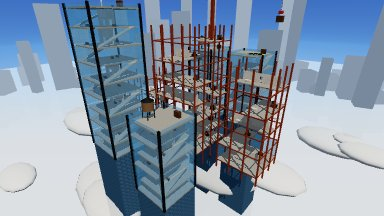
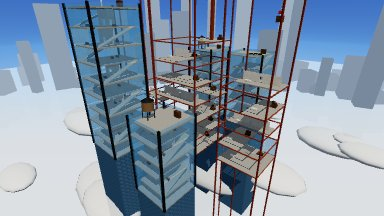
Glass Skyline: frames keep only four corner columns, rising into the sky; they can be grappled and sliced like bamboo

Changed region(s): [[0.3125, 0.0, 0.8125, 1.0], [0.3125, 0.1667, 0.3438, 0.1944]]

diff --git a/src/city.js b/src/city.js
@@ -4,7 +4,7 @@
 // steel frames (unbreakable) are there to swing from, run along and stand on.
 import * as THREE from 'three';
 import { deck, prop } from './maps2.js';
-import { kindMats, chunk, group, wall, stack, finishBrk, kill } from './dojo.js?v=20261114030746';
+import { kindMats, chunk, group, wall, stack, finishBrk, kill } from './dojo.js?v=20261114031250';
 
 const TAU = Math.PI * 2;
 const std = (color, o = {}) => new THREE.MeshStandardMaterial({ color, roughness: 0.8, ...o });
@@ -14,6 +14,8 @@ export function buildCity(A, T) {
   A.plats = []; A.pillars = []; A.arcPts = []; A.killY = -50;
   A.brk = { list: [], cells: new Map(), stamp: 0 };
   kindMats(T);
+  // red steel columns that cut like bamboo: a band (a bolted splice) every 2.6 m
+  M.bamboo = new THREE.MeshStandardMaterial({ map: T.canvasTex((g, s) => { const gr = g.createLinearGradient(0, 0, s, 0); gr.addColorStop(0, '#7e2a12'); gr.addColorStop(0.45, '#cf5a30'); gr.addColorStop(1, '#7a2810'); g.fillStyle = gr; g.fillRect(0, 0, s, s); g.fillStyle = '#3a1408'; g.fillRect(0, 0, s, s * 0.05); g.fillStyle = '#e0e0e0'; for (let i = 0; i < 6; i++) g.fillRect(i * s / 6 + 4, s * 0.012, 4, 4); }, 128), roughness: 0.5, metalness: 0.35 });
   A.setSky({ top: 0x2a68c8, mid: 0xa6cff0, bot: 0xe9f2fa, fog: 0xc3dbef, near: 120, far: 470, hemiSky: 0xe6f2ff, hemiGround: 0x56606e, hemi: 0.95, sunColor: 0xfff3dc, sun: 2.2, sunOff: new THREE.Vector3(40, 70, 25) });
   const concrete = M.concrete = std(0xffffff, { map: T.canvasTex((g, s) => { g.fillStyle = '#a3a19c'; g.fillRect(0, 0, s, s); T.speckle(g, s, T.rng(3), 3500, 0.22); g.fillStyle = 'rgba(0,0,0,0.12)'; g.fillRect(0, 0, s, 2); g.fillRect(0, 0, 2, s); }), roughness: 0.95 });
   const facade = M.facade = std(0xffffff, { map: T.canvasTex((g, s) => {
@@ -104,7 +106,7 @@ export function buildCity(A, T) {
     });
     for (const p of ps.slice(1)) p.parent = ps[0].i;
     A.curPlat = ps[0].i; const g = group();
-    for (const X of xs) for (const Z of zs) if (X === x0 || X === x1 || Z === z0 || Z === z1) chunk(A, g, 'steel', X - 0.25, X + 0.25, yb, top, Z - 0.25, Z + 0.25, true);
+    for (const X of [x0, x1]) for (const Z of [z0, z1]) { A.bamboo.push({ x: X, z: Z, r: 0.34, segs: [], inst: A.bamboo.length }); A.pillars.push({ x: X, z: Z, w: 0.7 }); } // only the corner columns: they rise into the sky, and you can hook them or slice them through (the top falls)
     for (const y of [...new Set(decks.map((k) => k[0]))]) { // beams only round the edge of the levels with a deck (the rest is just the outer columns)
       for (const Z of [z0, z1]) chunk(A, g, 'steel', x0 - 0.25, x1 + 0.25, y - 0.4, y, Z - 0.15, Z + 0.15, true);
       for (const X of [x0, x1]) chunk(A, g, 'steel', X - 0.15, X + 0.15, y - 0.4, y, z0 - 0.25, z1 + 0.25, true);
@@ -135,6 +137,7 @@ export function buildCity(A, T) {
     A.curPlat = undefined;
   }
 
+  A.plantStalks(-70, 160); // the frames' corner columns, from the clouds up into the sky
   finishBrk(A);
   A.onDrop = (p) => {
     for (const b of A.brk.list) if (b.alive && b.plat === p.i) kill(A, b);

diff --git a/src/main.js b/src/main.js
@@ -1,15 +1,15 @@
 import * as THREE from 'three';
-import { Arena, MAPS } from './arena.js?v=20261114030746';
-import { Fighter, PALETTE, GUARD, setMetalEnv, metalEnvFor } from './fighter.js?v=20261114030746';
-import { bakeMeshes, Pieces, Particles, splitSoup } from './slice.js?v=20261114030746';
-import { sfx, ensureAudio, setListener, setVolume } from './audio.js?v=20261114030746';
-import * as net from './net.js?v=20261114030746';
-import { MODES, POINT_MODES, MODE_GOAL, ModeFx, makeCrown } from './modes.js?v=20261114030746';
-import { profile, addCoins, randomLook, cleanLook, item } from './cosmetics.js?v=20261114030746';
-import { makeKillFx } from './killfx.js?v=20261114030746';
-import { makeGrapple } from './grapple.js?v=20261114030746';
-import { initShop } from './shop.js?v=20261114030746';
-import { breakChunk, chunkSoup } from './dojo.js?v=20261114030746';
+import { Arena, MAPS } from './arena.js?v=20261114031250';
+import { Fighter, PALETTE, GUARD, setMetalEnv, metalEnvFor } from './fighter.js?v=20261114031250';
+import { bakeMeshes, Pieces, Particles, splitSoup } from './slice.js?v=20261114031250';
+import { sfx, ensureAudio, setListener, setVolume } from './audio.js?v=20261114031250';
+import * as net from './net.js?v=20261114031250';
+import { MODES, POINT_MODES, MODE_GOAL, ModeFx, makeCrown } from './modes.js?v=20261114031250';
+import { profile, addCoins, randomLook, cleanLook, item } from './cosmetics.js?v=20261114031250';
+import { makeKillFx } from './killfx.js?v=20261114031250';
+import { makeGrapple } from './grapple.js?v=20261114031250';
+import { initShop } from './shop.js?v=20261114031250';
+import { breakChunk, chunkSoup } from './dojo.js?v=20261114031250';
 
 // ---------- settings ----------
 const store = {

diff --git a/index.html b/index.html
@@ -4,7 +4,7 @@
 <meta charset="utf-8">
 <meta name="viewport" content="width=device-width,initial-scale=1">
 <title>Sever</title>
-<meta name="build" content="20261114030746">
+<meta name="build" content="20261114031250">
 <link rel="icon" href="data:,">
 <script>
 // Stale-page guard (as in Splatline): if version.json names a newer build than this page, reload once.
@@ -127,12 +127,12 @@ window.severVersion.check();
 <script type="importmap">
 { "imports": {
   "three": "https://cdn.jsdelivr.net/npm/three@0.160.0/build/three.module.js",
-  "./src/main.js": "./src/main.js?v=20261114030746",
-  "./src/arena.js": "./src/arena.js?v=20261114030746",
-  "./src/fighter.js": "./src/fighter.js?v=20261114030746",
-  "./src/slice.js": "./src/slice.js?v=20261114030746",
-  "./src/audio.js": "./src/audio.js?v=20261114030746",
-  "./src/net.js": "./src/net.js?v=20261114030746"
+  "./src/main.js": "./src/main.js?v=20261114031250",
+  "./src/arena.js": "./src/arena.js?v=20261114031250",
+  "./src/fighter.js": "./src/fighter.js?v=20261114031250",
+  "./src/slice.js": "./src/slice.js?v=20261114031250",
+  "./src/audio.js": "./src/audio.js?v=20261114031250",
+  "./src/net.js": "./src/net.js?v=20261114031250"
 } }
 </script>
 </head>
@@ -274,6 +274,6 @@ window.severVersion.check();
 <div id="toast" style="opacity:0"></div>
 <div id="loading">Loading…</div>
 <noscript><p style="position:fixed;inset:0;display:flex;align-items:center;justify-content:center">Sever needs JavaScript and WebGL.</p></noscript>
-<script type="module" src="src/main.js?v=20261114030746"></script>
+<script type="module" src="src/main.js?v=20261114031250"></script>
 </body>
 </html>

diff --git a/src/shop.js b/src/shop.js
@@ -1,10 +1,10 @@
 // The shop screen: browse by category, try things on a turning, swinging preview fighter, buy and equip.
 import * as THREE from 'three';
-import { Fighter, PALETTE, setMetalEnv, metalEnvFor } from './fighter.js?v=20261114030746';
-import { Particles, Pieces, bakeMeshes } from './slice.js?v=20261114030746';
-import { makeKillFx } from './killfx.js?v=20261114030746';
-import { makeGrapple } from './grapple.js?v=20261114030746';
-import { CATEGORIES, CATALOG, item, profile, owns, buy, equip } from './cosmetics.js?v=20261114030746';
+import { Fighter, PALETTE, setMetalEnv, metalEnvFor } from './fighter.js?v=20261114031250';
+import { Particles, Pieces, bakeMeshes } from './slice.js?v=20261114031250';
+import { makeKillFx } from './killfx.js?v=20261114031250';
+import { makeGrapple } from './grapple.js?v=20261114031250';
+import { CATEGORIES, CATALOG, item, profile, owns, buy, equip } from './cosmetics.js?v=20261114031250';
 
 const $ = (id) => document.getElementById(id);
 const hex = (c) => '#' + c.toString(16).padStart(6, '0');

diff --git a/src/arena.js b/src/arena.js
@@ -3,8 +3,8 @@
 // so collision and "what am I standing on" stay simple and identical in every browser.
 import * as THREE from 'three';
 import { buildPagoda, buildIsles, buildBowl } from './maps2.js';
-import { buildCity } from './city.js?v=20261114030746';
-import { buildDojo } from './dojo.js?v=20261114030746';
+import { buildCity } from './city.js?v=20261114031250';
+import { buildDojo } from './dojo.js?v=20261114031250';
 const NONE = [];
 const _bm = new THREE.Matrix4(), _bp = new THREE.Vector3(), _bq = new THREE.Quaternion(), _bs = new THREE.Vector3(); // bamboo instance updates
 

diff --git a/src/killfx.js b/src/killfx.js
@@ -1,8 +1,8 @@
 // Kill effects from the shop: what happens to someone you cut down. The body still splits along your
 // cut; the effect changes what sprays out, what the pieces leak, and what becomes of them.
 import * as THREE from 'three';
-import { Particles } from './slice.js?v=20261114030746';
-import { sfx } from './audio.js?v=20261114030746';
+import { Particles } from './slice.js?v=20261114031250';
+import { sfx } from './audio.js?v=20261114031250';
 
 const R = () => Math.random() - 0.5;
 

diff --git a/src/fighter.js b/src/fighter.js
@@ -2,7 +2,7 @@
 // cleanly), posed each frame with a long-striding run cycle, two-bone IK for arms and legs, and a sword
 // driven by the swing input (s.x, s.y).
 import * as THREE from 'three';
-import { item, cleanLook } from './cosmetics.js?v=20261114030746';
+import { item, cleanLook } from './cosmetics.js?v=20261114031250';
 
 // Every material that can end up on a sliced piece is registered here, so a piece's single mesh can use
 // one shared material array and keep each triangle's look.

diff --git a/src/slice.js b/src/slice.js
@@ -2,7 +2,7 @@
 // and turn each side into a tumbling rigid piece. Every original part is convex, so the cut face of a part
 // is the convex hull of the points where the plane crossed it.
 import * as THREE from 'three';
-import { MATS } from './fighter.js?v=20261114030746';
+import { MATS } from './fighter.js?v=20261114031250';
 
 let partSeq = 1;
 const _v = new THREE.Vector3(), _n = new THREE.Vector3(), _nm = new THREE.Matrix3();

diff --git a/src/dojo.js b/src/dojo.js
@@ -6,7 +6,7 @@
 // Vertical: a four-tier dojo tower with stairs spiralling up it, two-storey houses, rooftop bridges, watchtowers
 // and floating shrine islands around the town.
 import * as THREE from 'three';
-import { regMat } from './fighter.js?v=20261114030746';
+import { regMat } from './fighter.js?v=20261114031250';
 import { deck, prop, bridge, stalk, drift, farRing } from './maps2.js';
 
 const TAU = Math.PI * 2, CELL = 6;

diff --git a/README.md b/README.md
@@ -103,7 +103,7 @@ Skyscrapers above the clouds, made to be swung between and smashed through:
 
 - All seven buildings stand close together, about 9 to 13 m apart: room to swing between them, and to smash straight from one into the next.
 - **Four glass towers**, walled in glass all the way up. Every pane **shatters** into tumbling shards when you swing, run or dash into it, or cut it. Inside, there's a floor every 6 m with stairs zig-zagging up, office partitions to cut through, and desks. On the roofs are water towers, a helipad and a radio mast to hook.
-- **Three half-built buildings**: nothing but a red **steel frame** (columns round the outside, beams round the edge of each deck) with a concrete deck every couple of floors. The steel can't be cut. Swing from it, run along the beams, or stand on them. Each deck has drywall sheets, pallets of crates and partitions going up, and the lowest floors have their first windows in.
+- **Three half-built buildings**: nothing but a concrete deck every couple of floors ringed with red steel beams, held by four red **corner columns** that rise from the clouds up into the sky. Hook the columns to swing, or slice one through and the top falls away. The steel can't be cut. Swing from it, run along the beams, or stand on them. Each deck has drywall sheets, pallets of crates and partitions going up, and the lowest floors have their first windows in.
 - A **tower crane** on the biggest frame, with a long jib you can run along and a load of crates hanging off its hook.
 - Bots swing from building to building and crash through the glass to get to you.
 
